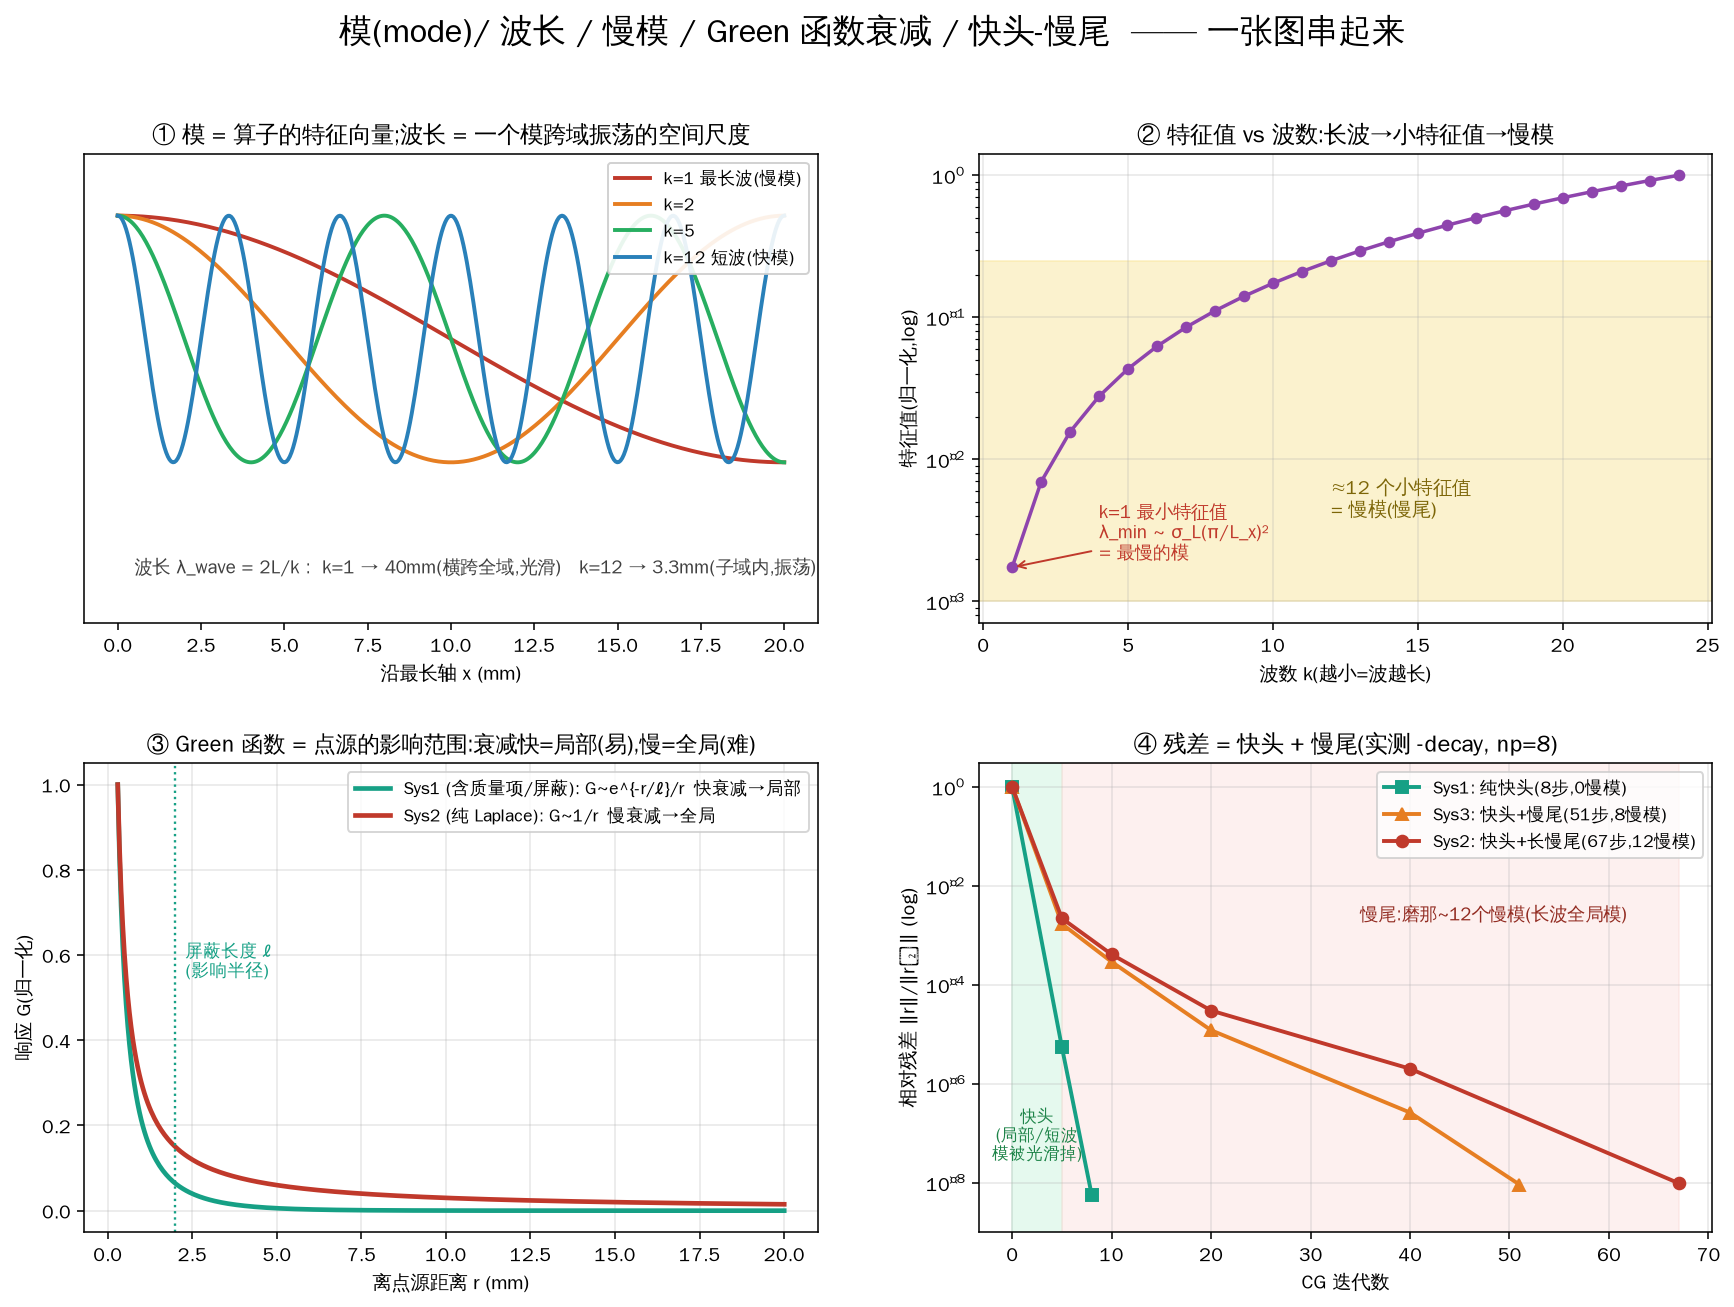
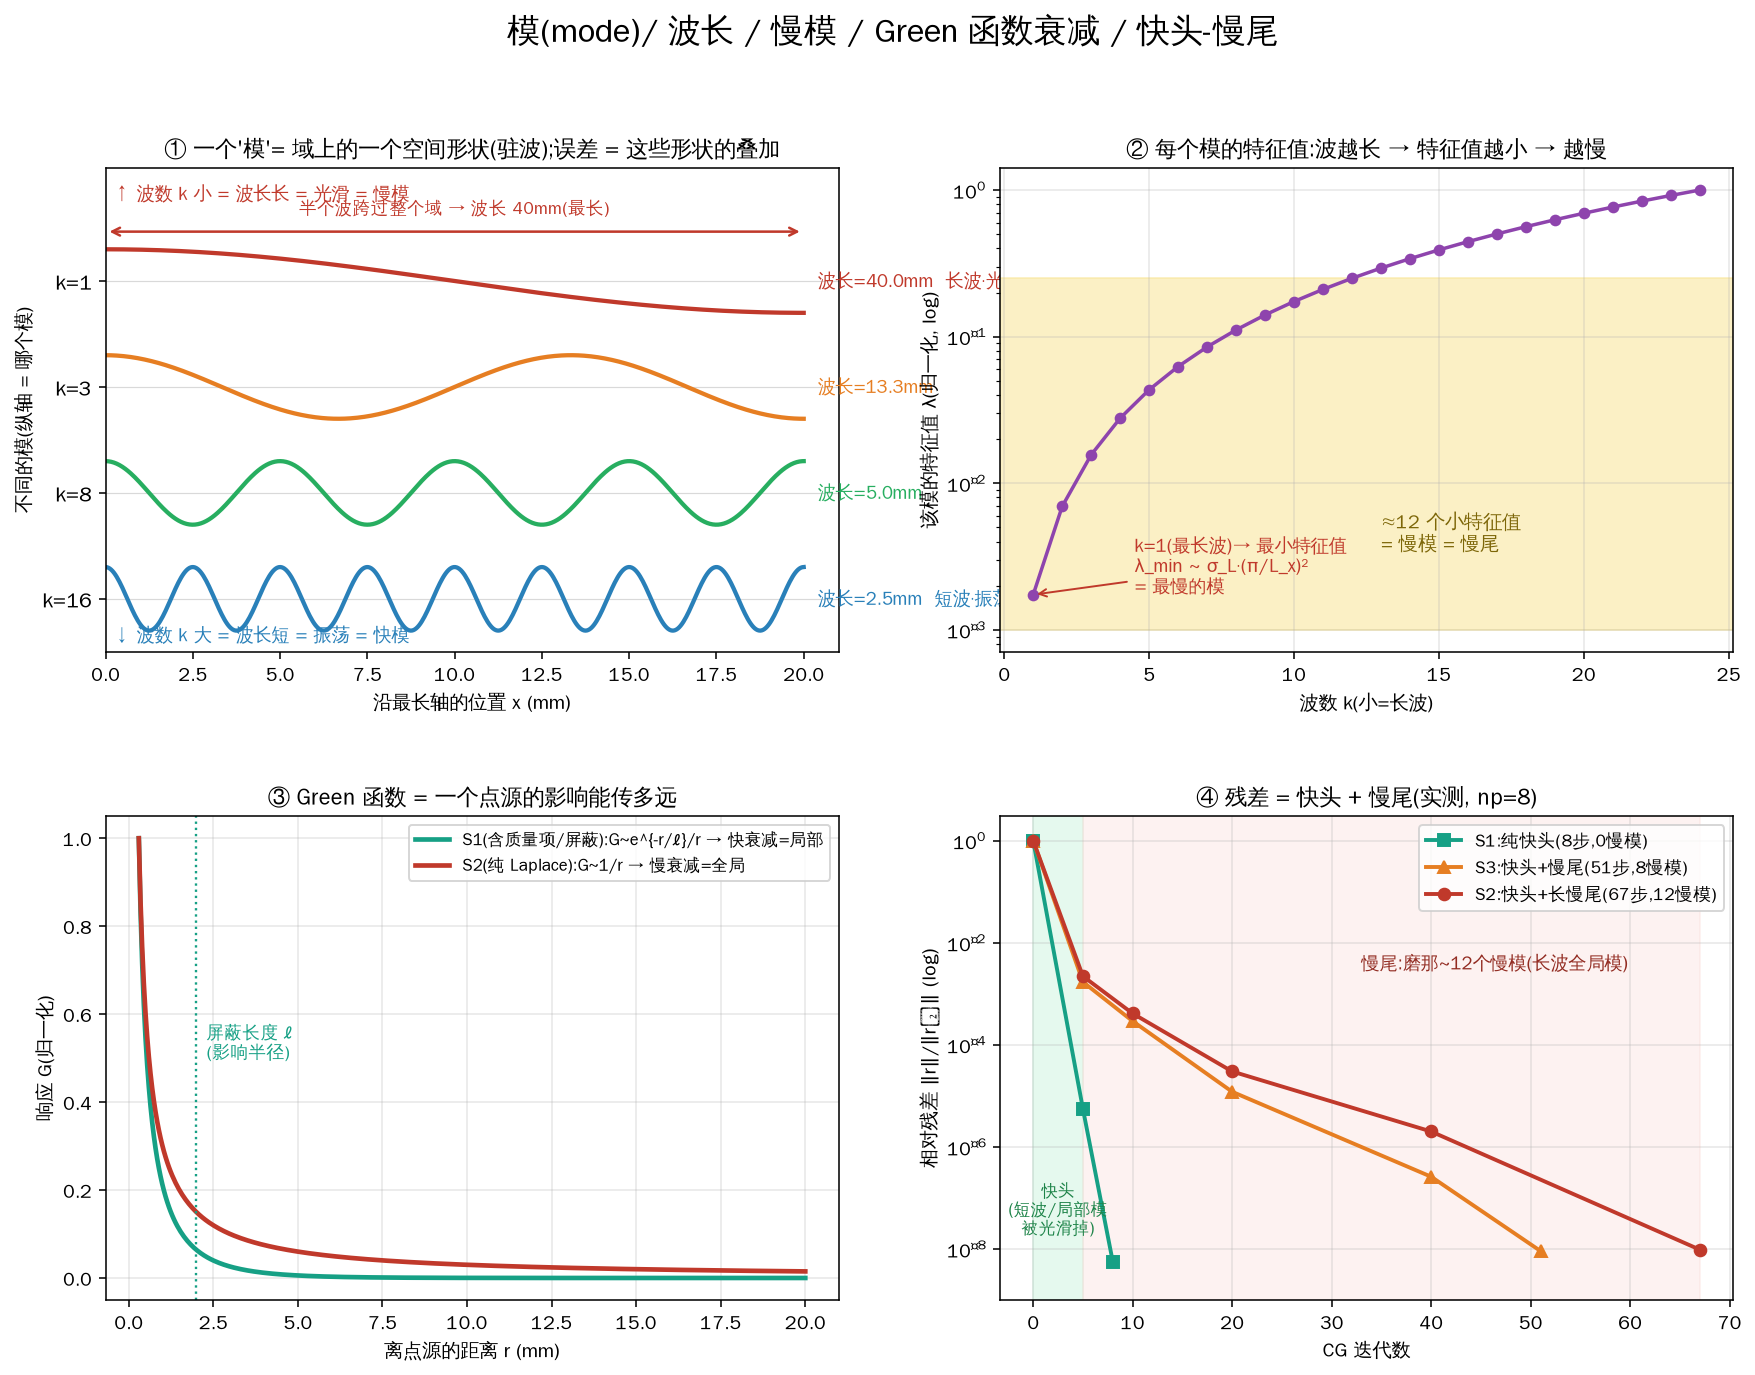
viz: fig_modes_explain -- clearer panel A (stacked modes, labeled wavelengths, y=which mode)
The first panel previously overlaid all cosine modes in one band with no y-axis
ticks (unreadable). Redraw: stack the modes (k=1/3/8/16) with vertical offsets,
label each with its wavelength and slow/fast tag, y-axis = which mode, and mark
the k=1 wavelength with a double arrow. Each row is now clearly one spatial shape
(standing wave): long-wave/smooth/slow at top, short-wave/oscillatory/fast at
bottom -- making "mode", "wavelength" and "slow mode" visually concrete.

Claude-Session: https://claude.ai/code/session_01Td7PJYykjvwsdg1NW8u8VH

diff --git a/asm_bug_demo/cardiac/plot_modes_explain.py b/asm_bug_demo/cardiac/plot_modes_explain.py
@@ -1,7 +1,7 @@
 #!/usr/bin/env python3
-"""plot_modes_explain.py -- visualize the 5 concepts: mode, wavelength, slow mode,
-Green-function decay (local vs global), fast-head/slow-tail residual decay.
-All residual numbers are the MEASURED -decay output (np=8). Output: fig_modes_explain.png
+"""plot_modes_explain.py -- visualize: mode, wavelength, slow mode, Green-function
+decay (local vs global), fast-head/slow-tail. Residuals are MEASURED (-decay np=8).
+Output: fig_modes_explain.png
 """
 import matplotlib, numpy as np
 matplotlib.use("Agg")
@@ -14,77 +14,83 @@ except Exception:
 matplotlib.rcParams["axes.unicode_minus"] = False
 import matplotlib.pyplot as plt
 
-fig = plt.figure(figsize=(15, 10))
-gs = fig.add_gridspec(2, 2, hspace=0.30, wspace=0.22)
-fig.suptitle("模(mode)/ 波长 / 慢模 / Green 函数衰减 / 快头-慢尾  —— 一张图串起来",
-             fontsize=17, weight="bold", y=0.98)
+fig = plt.figure(figsize=(15, 10.5))
+gs = fig.add_gridspec(2, 2, hspace=0.34, wspace=0.22)
+fig.suptitle("模(mode)/ 波长 / 慢模 / Green 函数衰减 / 快头-慢尾", fontsize=17, weight="bold", y=0.985)
 
-Lx = 20.0  # slab longest axis (mm)
+Lx = 20.0  # 最长轴长度 (mm)
 
-# ============ (A) 什么是"模"和"波长":slab 上的正弦模 ============
+# ============ (A) 什么是"模" + 波长:把每个模上下错开画 ============
 axA = fig.add_subplot(gs[0,0])
-x = np.linspace(0, Lx, 400)
-for k, col, lab in [(1,"#c0392b","k=1 最长波(慢模)"),
-                    (2,"#e67e22","k=2"),
-                    (5,"#27ae60","k=5"),
-                    (12,"#2980b9","k=12 短波(快模)")]:
-    axA.plot(x, np.cos(k*np.pi*x/Lx) + 0*k, color=col, lw=2.0, label=lab)
-axA.set_title("① 模 = 算子的特征向量;波长 = 一个模跨域振荡的空间尺度", fontsize=12, weight="bold")
-axA.set_xlabel("沿最长轴 x (mm)"); axA.set_yticks([])
-axA.legend(fontsize=9, loc="upper right", framealpha=0.9)
-axA.text(0.5, -1.9, "波长 λ_wave = 2L/k :  k=1 → 40mm(横跨全域,光滑)   k=12 → 3.3mm(子域内,振荡)",
-         fontsize=9.5, color="0.25")
-axA.set_ylim(-2.3, 1.5)
+x = np.linspace(0, Lx, 500)
+modes = [(1,"#c0392b"), (3,"#e67e22"), (8,"#27ae60"), (16,"#2980b9")]
+offsets = [9, 6, 3, 0]          # 每个模垂直错开,避免叠在一起
+yticks, ylabs = [], []
+for (k,col),off in zip(modes, offsets):
+    y = 0.9*np.cos(k*np.pi*x/Lx) + off
+    axA.plot(x, y, color=col, lw=2.2)
+    axA.axhline(off, color="0.85", lw=0.6, zorder=0)
+    wl = 2*Lx/k                 # 波长
+    yticks.append(off); ylabs.append(f"k={k}")
+    # 在右侧标注波长 + 快慢
+    tag = "长波·光滑·慢模" if k<=1 else ("短波·振荡·快模" if k>=16 else "")
+    axA.text(Lx+0.4, off, f"波长={wl:.1f}mm  {tag}", va="center", fontsize=9.5,
+             color=col, weight=("bold" if tag else "normal"))
+# 给 k=1 画一个波长双箭头(半周期 = Lx)
+axA.annotate("", xy=(0, offsets[0]+1.4), xytext=(Lx, offsets[0]+1.4),
+             arrowprops=dict(arrowstyle="<->", color="#c0392b", lw=1.3))
+axA.text(Lx/2, offsets[0]+1.9, "半个波跨过整个域 → 波长 40mm(最长)", ha="center",
+         fontsize=9, color="#c0392b")
+axA.set_title("① 一个'模'= 域上的一个空间形状(驻波);误差 = 这些形状的叠加",
+              fontsize=11.5, weight="bold")
+axA.set_xlabel("沿最长轴的位置 x (mm)")
+axA.set_yticks(yticks); axA.set_yticklabels(ylabs, fontsize=11)
+axA.set_ylabel("不同的模(纵轴 = 哪个模)")
+axA.set_xlim(0, Lx*1.05); axA.set_ylim(-1.5, 12.2)
+axA.text(0.2, 11.3, "↑ 波数 k 小 = 波长长 = 光滑 = 慢模", fontsize=9.5, color="#c0392b")
+axA.text(0.2, -1.2, "↓ 波数 k 大 = 波长短 = 振荡 = 快模", fontsize=9.5, color="#2980b9")
 
 # ============ (B) 特征值 vs 波数:小特征值 = 长波 = 慢模 ============
 axB = fig.add_subplot(gs[0,1])
 k = np.arange(1, 25)
-lam = (np.pi*k/Lx)**2                 # stiffness eigenvalue ~ (k pi/L)^2 (Laplace)
-lam_n = lam/lam.max()                 # normalize for display
+lam = (np.pi*k/Lx)**2; lam_n = lam/lam.max()
 axB.semilogy(k, lam_n, "o-", color="#8e44ad", lw=1.8, ms=5)
-# mark the ~12 "slow" modes (small eigenvalue) region
-axB.axhspan(1e-3, lam_n[11], color="#f9e79f", alpha=0.5)
-axB.text(12, 4e-3, "≈12 个小特征值\n= 慢模(慢尾)", fontsize=10, color="#7d6608", weight="bold")
-axB.annotate("k=1 最小特征值\nλ_min ~ σ_L(π/L_x)²\n= 最慢的模",
-             xy=(1, lam_n[0]), xytext=(4, 2e-3),
-             fontsize=9.5, color="#c0392b",
+axB.axhspan(1e-3, lam_n[11], color="#f9e79f", alpha=0.6)
+axB.text(13, 3.5e-3, "≈12 个小特征值\n= 慢模 = 慢尾", fontsize=10, color="#7d6608", weight="bold")
+axB.annotate("k=1(最长波)→ 最小特征值\nλ_min ~ σ_L·(π/L_x)²\n= 最慢的模",
+             xy=(1, lam_n[0]), xytext=(4.5, 1.8e-3), fontsize=9.5, color="#c0392b",
              arrowprops=dict(arrowstyle="->", color="#c0392b"))
-axB.set_title("② 特征值 vs 波数:长波→小特征值→慢模", fontsize=12, weight="bold")
-axB.set_xlabel("波数 k(越小=波越长)"); axB.set_ylabel("特征值(归一化,log)")
+axB.set_title("② 每个模的特征值:波越长 → 特征值越小 → 越慢", fontsize=11.5, weight="bold")
+axB.set_xlabel("波数 k(小=长波)"); axB.set_ylabel("该模的特征值 λ(归一化, log)")
 axB.grid(alpha=0.3)
 
-# ============ (C) Green 函数衰减:Sys1 局部 vs Sys2 全局 ============
+# ============ (C) Green 函数衰减:局部 vs 全局 ============
 axC = fig.add_subplot(gs[1,0])
-r = np.linspace(0.3, Lx, 400)
-ell = 2.0  # screening length for Sys1 (illustrative): sqrt(sigma*dt/chiCm)
-G1 = np.exp(-r/ell)/r; G1/=G1.max()          # screened (mass term) -> exp decay
-G2 = 1.0/r; G2/=G2.max()                      # pure Laplace -> 1/r, slow/global
-axC.plot(r, G1, color="#16a085", lw=2.4, label="Sys1 (含质量项/屏蔽): G~e^{-r/ℓ}/r  快衰减→局部")
-axC.plot(r, G2, color="#c0392b", lw=2.4, label="Sys2 (纯 Laplace): G~1/r  慢衰减→全局")
+r = np.linspace(0.3, Lx, 400); ell = 2.0
+G1 = np.exp(-r/ell)/r; G1/=G1.max()
+G2 = 1.0/r; G2/=G2.max()
+axC.plot(r, G1, color="#16a085", lw=2.4, label="S1(含质量项/屏蔽):G~e^{-r/ℓ}/r → 快衰减=局部")
+axC.plot(r, G2, color="#c0392b", lw=2.4, label="S2(纯 Laplace):G~1/r → 慢衰减=全局")
 axC.axvline(ell, color="#16a085", ls=":", lw=1.2)
-axC.text(ell+0.3, 0.55, "屏蔽长度 ℓ\n(影响半径)", fontsize=9, color="#16a085")
-axC.set_title("③ Green 函数 = 点源的影响范围:衰减快=局部(易),慢=全局(难)",
-              fontsize=11.5, weight="bold")
-axC.set_xlabel("离点源距离 r (mm)"); axC.set_ylabel("响应 G(归一化)")
-axC.legend(fontsize=9, loc="upper right"); axC.grid(alpha=0.3)
+axC.text(ell+0.3, 0.5, "屏蔽长度 ℓ\n(影响半径)", fontsize=9, color="#16a085")
+axC.set_title("③ Green 函数 = 一个点源的影响能传多远", fontsize=11.5, weight="bold")
+axC.set_xlabel("离点源的距离 r (mm)"); axC.set_ylabel("响应 G(归一化)")
+axC.legend(fontsize=8.5, loc="upper right"); axC.grid(alpha=0.3)
 
 # ============ (D) 快头 + 慢尾:实测残差(np=8) ============
 axD = fig.add_subplot(gs[1,1])
-# MEASURED from -decay, np=8
-s2_it = [0,5,10,20,40,67]; s2_r=[1.0,2.2e-3,4.1e-4,3.0e-5,2.0e-6,9.7e-9]
-s1_it = [0,5,8];           s1_r=[1.0,5.5e-6,5.6e-9]
-s3_it = [0,5,10,20,40,51]; s3_r=[1.0,1.7e-3,2.9e-4,1.2e-5,2.6e-7,9.1e-9]
-axD.semilogy(s1_it,s1_r,"s-",color="#16a085",lw=2,ms=6,label="Sys1: 纯快头(8步,0慢模)")
-axD.semilogy(s3_it,s3_r,"^-",color="#e67e22",lw=2,ms=6,label="Sys3: 快头+慢尾(51步,8慢模)")
-axD.semilogy(s2_it,s2_r,"o-",color="#c0392b",lw=2,ms=6,label="Sys2: 快头+长慢尾(67步,12慢模)")
-axD.axvspan(0,5,color="#d5f5e3",alpha=0.6)
-axD.axvspan(5,67,color="#fadbd8",alpha=0.4)
-axD.text(2.5,3e-8,"快头\n(局部/短波\n模被光滑掉)",fontsize=8.5,color="#1e8449",ha="center")
-axD.text(35,2e-3,"慢尾:磨那~12个慢模(长波全局模)",fontsize=9.5,color="#922b21",weight="bold")
-axD.set_title("④ 残差 = 快头 + 慢尾(实测 -decay, np=8)", fontsize=12, weight="bold")
+s2_it=[0,5,10,20,40,67]; s2_r=[1.0,2.2e-3,4.1e-4,3.0e-5,2.0e-6,9.7e-9]
+s1_it=[0,5,8]; s1_r=[1.0,5.5e-6,5.6e-9]
+s3_it=[0,5,10,20,40,51]; s3_r=[1.0,1.7e-3,2.9e-4,1.2e-5,2.6e-7,9.1e-9]
+axD.semilogy(s1_it,s1_r,"s-",color="#16a085",lw=2,ms=6,label="S1:纯快头(8步,0慢模)")
+axD.semilogy(s3_it,s3_r,"^-",color="#e67e22",lw=2,ms=6,label="S3:快头+慢尾(51步,8慢模)")
+axD.semilogy(s2_it,s2_r,"o-",color="#c0392b",lw=2,ms=6,label="S2:快头+长慢尾(67步,12慢模)")
+axD.axvspan(0,5,color="#d5f5e3",alpha=0.6); axD.axvspan(5,67,color="#fadbd8",alpha=0.35)
+axD.text(2.5,2e-8,"快头\n(短波/局部模\n被光滑掉)",fontsize=8.5,color="#1e8449",ha="center")
+axD.text(33,3e-3,"慢尾:磨那~12个慢模(长波全局模)",fontsize=9.5,color="#922b21",weight="bold")
+axD.set_title("④ 残差 = 快头 + 慢尾(实测, np=8)", fontsize=11.5, weight="bold")
 axD.set_xlabel("CG 迭代数"); axD.set_ylabel("相对残差 ‖r‖/‖r₀‖ (log)")
-axD.legend(fontsize=9, loc="upper right"); axD.grid(alpha=0.3)
-axD.set_ylim(1e-9, 3)
+axD.legend(fontsize=9, loc="upper right"); axD.grid(alpha=0.3); axD.set_ylim(1e-9,3)
 
 fig.savefig("fig_modes_explain.png", dpi=140, bbox_inches="tight")
 print("wrote fig_modes_explain.png")
